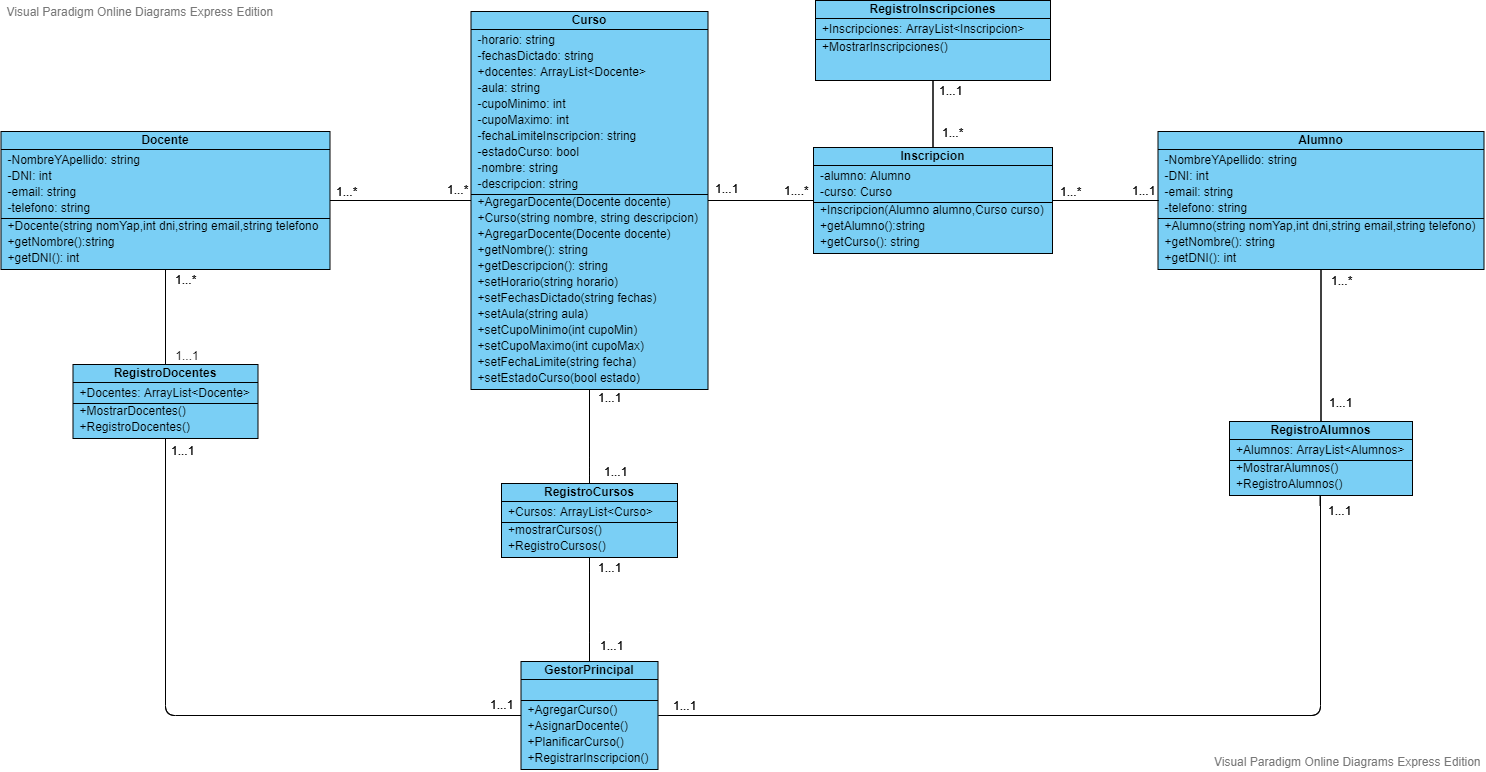
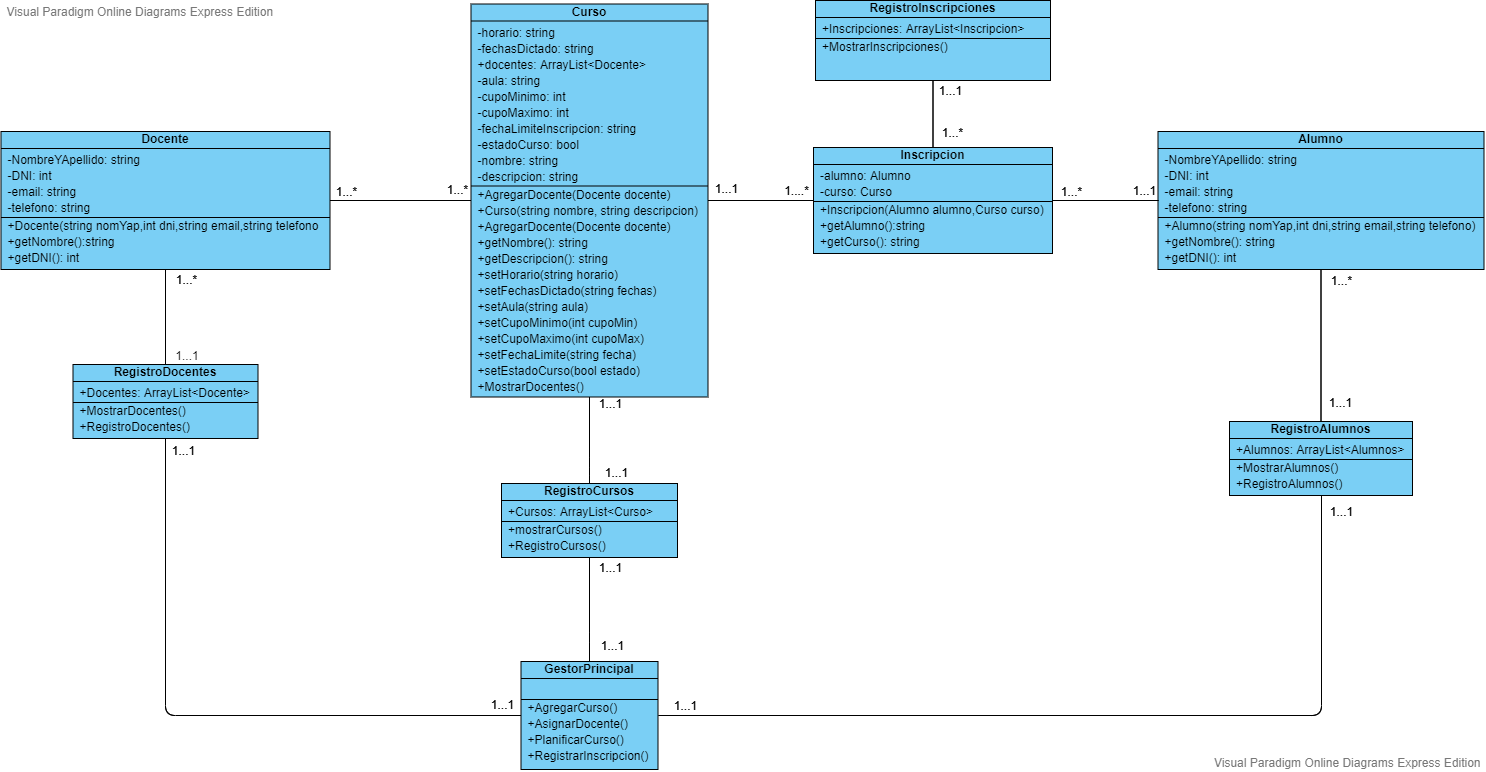
Se modificó el código

diff --git a/TP3/Programa/src/main/java/dsitp3/GestorPrincipal.java b/TP3/Programa/src/main/java/dsitp3/GestorPrincipal.java
@@ -42,14 +42,14 @@ public class GestorPrincipal
     
     public static void AgregarCurso()
     {
-        Scanner entrada = new Scanner(System.in);
+        Scanner input = new Scanner(System.in);
         System.out.println("Nombre del curso: ");
-        String nombre = entrada.next();
-        System.out.println("Descripcion: ");
-        String descripcion = entrada.next();
+        String nombre = input.nextLine();
+        System.out.println("Descripción: ");
+        String descripcion = input.nextLine();
         RegistroDocentes.MostrarDocentes();
         System.out.println("Seleccione docente");
-        int opc = entrada.nextInt();
+        int opc = input.nextInt();
         int posicion = opc - 1;
         Docente docente = RegistroDocentes.Docentes.get(posicion);
         Curso curso = new Curso(nombre,descripcion);
@@ -67,14 +67,17 @@ public class GestorPrincipal
         Curso curso = RegistroCursos.Cursos.get(pos);
         
         System.out.println("Horario: ");
-        String horario = entrada.next();
+        String horario;
+        entrada.nextLine();
+        horario = entrada.nextLine();
         curso.setHorario(horario);
         
         System.out.println ("Fechas de dictado: ");
-        String fechasDictado = entrada.next();
+        String fechasDictado;
+        fechasDictado = entrada.nextLine();
         curso.setFechasDictado(fechasDictado);
         
-        if (curso.docentes.size()==0)
+        if (curso.docentes.isEmpty())
         {
             RegistroDocentes.MostrarDocentes();
             System.out.println ("Seleccione docente:");
@@ -85,7 +88,9 @@ public class GestorPrincipal
         }
         
         System.out.println("Aula: ");
-        String aula = entrada.next();
+        String aula;
+        entrada.nextLine();
+        aula = entrada.nextLine();
         curso.setAula(aula);
         
         System.out.println("Cupo mínimo de alumnos: ");
@@ -96,8 +101,9 @@ public class GestorPrincipal
         int cupoMaximo = entrada.nextInt();
         curso.setCupoMaximo(cupoMaximo);
         
-        System.out.println("Ingresar fecha límite de inscripción [dd/mm/aaaa]: ");
-        String fechaLimite = entrada.next();
+        System.out.println("Ingresar fecha límite de inscripción (dd/mm/aaaa): ");
+        String fechaLimite;
+        fechaLimite = entrada.next();
         curso.setFechaLimite(fechaLimite);
         
         curso.setEstadoCurso(true);
@@ -119,18 +125,21 @@ public class GestorPrincipal
         Curso curso = RegistroCursos.Cursos.get(pos);
         
         curso.AgregarDocente(docente);
+        curso.MostrarDocentes();
     }
     
     public static void RegistrarInscripcion()
     {
         Scanner entrada = new Scanner(System.in);
-        System.out.println("¿Alumno regstrado? \n1-Sí \n2-No");
+        System.out.println("¿Alumno registrado? \n1-Sí \n2-No");
         int opcion = entrada.nextInt();
-        RegistroAlumnos.MostrarAlumnos();
+        
         if (opcion == 2)
         {
             System.out.println("Nombre y apellido: ");
-            String nombreYap = entrada.next();
+            String nombreYap;
+            entrada.nextLine();
+            nombreYap = entrada.nextLine();
         
             System.out.println("DNI: ");
             int dni = entrada.nextInt();
@@ -145,6 +154,7 @@ public class GestorPrincipal
             RegistroAlumnos.Alumnos.add(alumno);
         }
         
+        RegistroAlumnos.MostrarAlumnos();
         System.out.println("Seleccione alumno: ");
         int seleccion = entrada.nextInt();
         int posicion = seleccion - 1;

diff --git a/TP3/Programa/src/main/java/dsitp3/Curso.java b/TP3/Programa/src/main/java/dsitp3/Curso.java
@@ -1,5 +1,6 @@
 
 package dsitp3;
+import static dsitp3.RegistroDocentes.Docentes;
 import java.util.ArrayList;
 
 public class Curso 
@@ -8,7 +9,7 @@ public class Curso
     private String descripcion;
     private String horario;
     private String fechasDictado;
-    public static ArrayList<Docente>docentes = new ArrayList();
+    public ArrayList<Docente>docentes = new ArrayList();
     private String aula;
     private int cupoMinimo;
     private int cupoMaximo;
@@ -69,5 +70,16 @@ public class Curso
     public void setEstadoCurso(boolean estado)
     {
         this.estadoCurso=estado;
+    }
+    public void MostrarDocentes()
+    {
+        int pos = 1;
+        System.out.println ("Docentes del curso: " +nombre + " " + descripcion);
+        
+        for (Docente docente: docentes)
+        {
+            System.out.println(pos + "-" +docente.getNombre() +" DNI: " +docente.getDNI());
+            pos++;
+        }
     }
 }

diff --git a/TP3/Programa/src/main/java/dsitp3/RegistroInscripciones.java b/TP3/Programa/src/main/java/dsitp3/RegistroInscripciones.java
@@ -12,6 +12,7 @@ public class RegistroInscripciones
         for (Inscripcion inscripcion: Inscripciones)
         {
             System.out.println(pos + "- Alumno: " + inscripcion.getAlumno() + " Curso: " + inscripcion.getCurso());
+            pos++;
         }
     }
 }

diff --git a/TP3/Programa/src/main/java/dsitp3/RegistroDocentes.java b/TP3/Programa/src/main/java/dsitp3/RegistroDocentes.java
@@ -4,7 +4,7 @@ import java.util.ArrayList;
 
 public class RegistroDocentes 
 {
-    public static ArrayList<Docente>Docentes=new ArrayList<Docente>();
+    public static ArrayList<Docente>Docentes=new ArrayList();
     
     public RegistroDocentes()
     {
